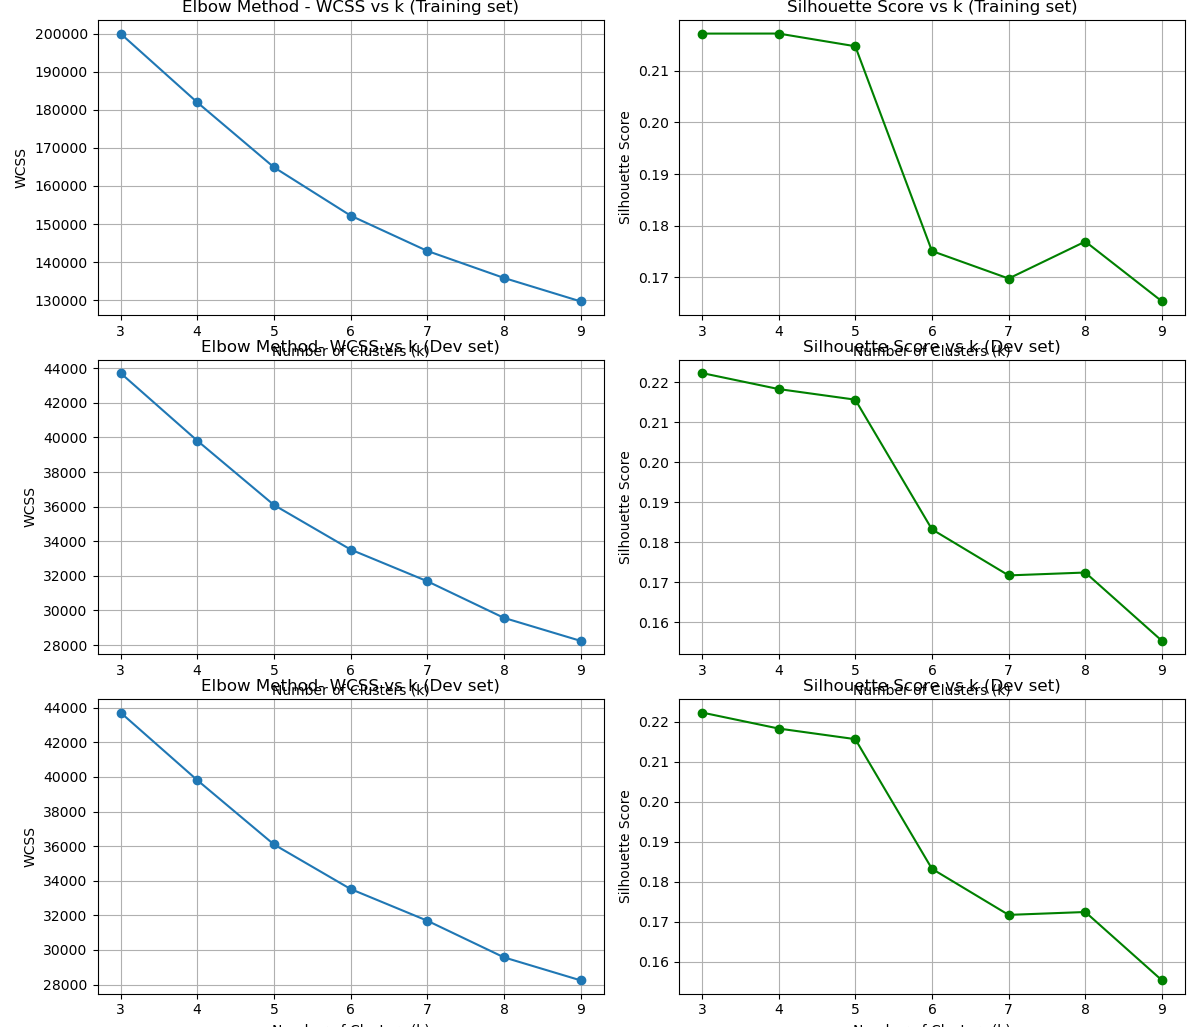
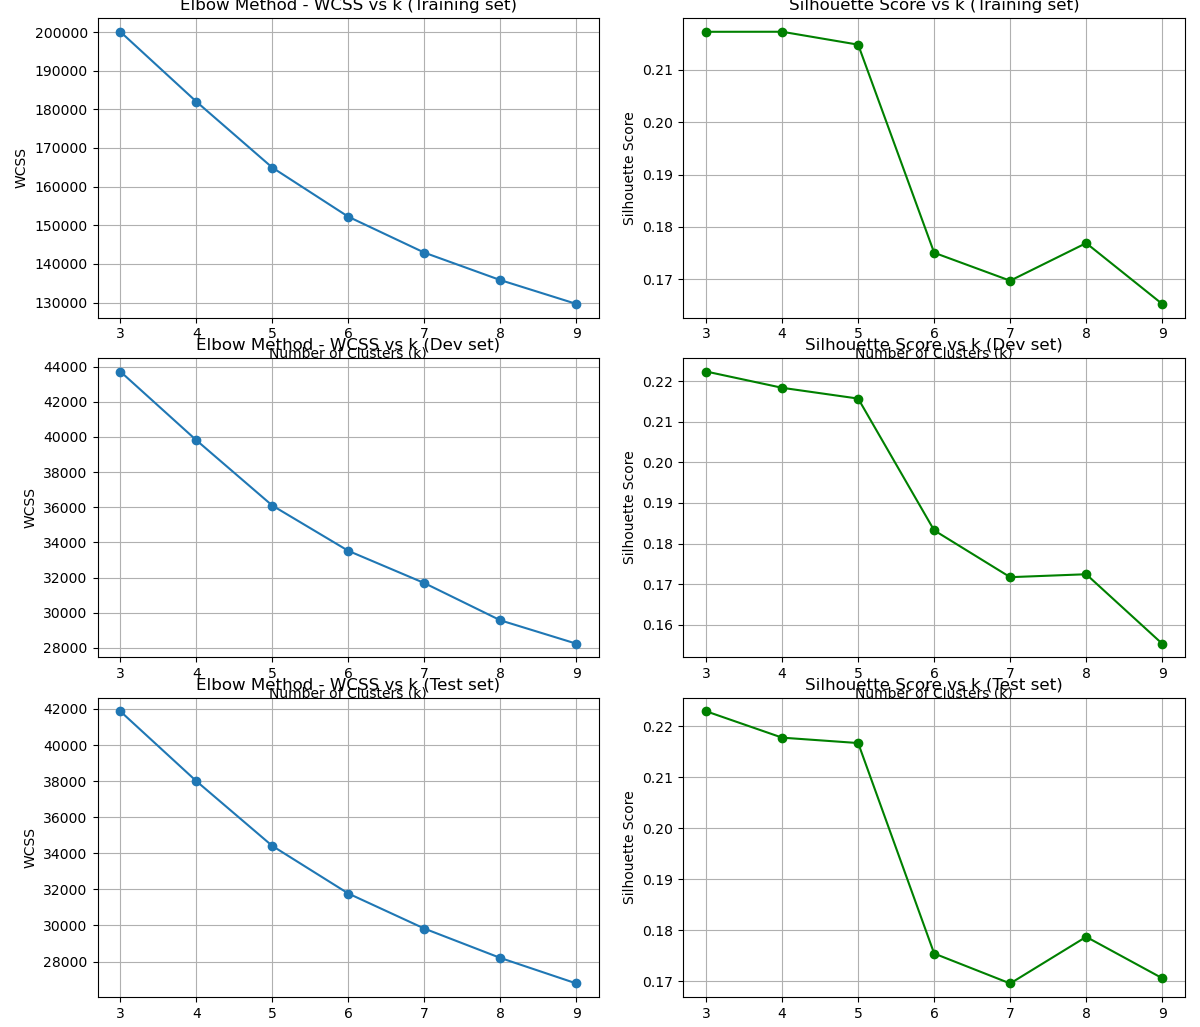
optimize visualization

diff --git a/src/visualization/visualize.py b/src/visualization/visualize.py
@@ -3,130 +3,100 @@ import os
 sys.path.append(os.path.abspath(os.path.join(os.path.dirname(__file__), r'../..')))
 
 from src.features.build_features import clean_data
-from src.models.predict_model import evaluate_model
 from src.models.train_model import train_kmeans_model
 from src.data.make_dataset import load_and_preprocess_data
 from sklearn.model_selection import train_test_split
 from sklearn.preprocessing import StandardScaler
-import matplotlib.pyplot as plt
 from sklearn.cluster import KMeans
 from sklearn.metrics import silhouette_score
+import matplotlib.pyplot as plt
 import warnings
 warnings.filterwarnings("ignore")
 
-# Import data loading, preprocessing, training, and evaluation functions
-
-# Path to the raw Diamonds dataset
+# Load and clean data
 data_path = r'data/raw/DiamondsPrices.csv'
-
-# Step 1: Load and preprocess the raw dataset (map categorical to numeric)
 df = load_and_preprocess_data(data_path)
-
-# Step 2: Clean the dataset and select relevant features
 df = clean_data(df)
 
-# Step 3: Train the KMeans model and return scaled train/dev/test splits
+# Split data
 x_temp, x_test = train_test_split(df, test_size=8000, random_state=42)
-
-# Split the temporary set into training and development sets
 x_train, x_dev = train_test_split(x_temp, test_size=8000, random_state=42)
 
-# Initialize and fit the scaler using the training data
 scaler = StandardScaler().fit(x_train)
-
-# Transform all splits using the fitted scaler
 x_train_scaled = scaler.transform(x_train)
 x_dev_scaled = scaler.transform(x_dev)
 x_test_scaled = scaler.transform(x_test)
 
+# Function to compute WCSS and Silhouette
+def compute_scores(X, k_range, random_state=42):
+    wcss = []
+    sil = []
+    for k in k_range:
+        model = KMeans(n_clusters=k, n_init=20, random_state=random_state)
+        labels = model.fit_predict(X)
+        wcss.append(model.inertia_)
+        sil.append(silhouette_score(X, labels))
+    return wcss, sil
 
-random_v=42
-plt.figure(figsize=(12, 18)) 
-k = range(3,10)
-K = []
-WCSS = []
-ss=[]
-for i in k:
-    kmodel = KMeans(n_clusters=i,n_init=20,  random_state=random_v).fit(x_train_scaled)
-    wcss_score = kmodel.inertia_
-    WCSS.append(wcss_score)
-    sil_score = silhouette_score(x_train_scaled, kmodel.labels_)   
+# Range for k
+k_values = range(3, 10)
 
-    K.append(i)
-    ss.append(sil_score)
-    
+# Compute scores
+train_wcss, train_sil = compute_scores(x_train_scaled, k_values)
+dev_wcss, dev_sil = compute_scores(x_dev_scaled, k_values)
+test_wcss, test_sil = compute_scores(x_test_scaled, k_values)
+
+# Plotting
+plt.figure(figsize=(12, 20))
+plt.subplots_adjust(hspace=1) 
+# Training
+
 plt.subplot(3, 2, 1)
-plt.plot(K, WCSS, marker='o')
-plt.title('Elbow Method - WCSS vs k (Training set)')
-plt.xlabel('Number of Clusters (k)')
-plt.ylabel('WCSS')
+plt.plot(k_values, train_wcss, marker='o')
+plt.title("Elbow Method - WCSS vs k (Training set)")
+plt.xlabel("Number of Clusters (k)")
+plt.ylabel("WCSS")
 plt.grid(True)
 
-# Silhouette Plot
 plt.subplot(3, 2, 2)
-plt.plot(K, ss, marker='o', color='green')
-plt.title('Silhouette Score vs k (Training set)')
-plt.xlabel('Number of Clusters (k)')
-plt.ylabel('Silhouette Score')
+plt.plot(k_values, train_sil, marker='o', color='green')
+plt.title("Silhouette Score vs k (Training set)")
+plt.xlabel("Number of Clusters (k)")
+plt.ylabel("Silhouette Score")
 plt.grid(True)
 
-plt.tight_layout()
-
-k = range(3,10)
-K = []
-WCSS = []
-ss=[]
-for i in k:
-    kmodel = KMeans(n_clusters=i,n_init=20,  random_state=random_v).fit(x_dev_scaled)
-    wcss_score = kmodel.inertia_
-    WCSS.append(wcss_score)
-    sil_score = silhouette_score(x_dev_scaled, kmodel.labels_)    
-    K.append(i)
-    ss.append(sil_score)
-    
+# Dev
+plt.subplots_adjust(hspace=10) 
 plt.subplot(3, 2, 3)
-plt.plot(K, WCSS, marker='o')
-plt.title('Elbow Method- WCSS vs k (Dev set)')
-plt.xlabel('Number of Clusters (k)')
-plt.ylabel('WCSS')
+plt.plot(k_values, dev_wcss, marker='o')
+plt.title("Elbow Method - WCSS vs k (Dev set)")
+plt.xlabel("Number of Clusters (k)")
+plt.ylabel("WCSS")
 plt.grid(True)
 
-# Silhouette Plot
 plt.subplot(3, 2, 4)
-plt.plot(K, ss, marker='o', color='green')
-plt.title('Silhouette Score vs k (Dev set)')
-plt.xlabel('Number of Clusters (k)')
-plt.ylabel('Silhouette Score')
+plt.plot(k_values, dev_sil, marker='o', color='green')
+plt.title("Silhouette Score vs k (Dev set)")
+plt.xlabel("Number of Clusters (k)")
+plt.ylabel("Silhouette Score")
 plt.grid(True)
 
-plt.tight_layout()    
-
-k = range(3,10)
-K = []
-WCSS = []
-ss=[]
-for i in k:
-    kmodel = KMeans(n_clusters=i,n_init=20,  random_state=random_v).fit(x_dev_scaled)
-    wcss_score = kmodel.inertia_
-    WCSS.append(wcss_score)
-    sil_score = silhouette_score(x_dev_scaled, kmodel.labels_)    
-    K.append(i)
-    ss.append(sil_score)
-
+# Test
+plt.subplots_adjust(hspace=10) 
 plt.subplot(3, 2, 5)
-plt.plot(K, WCSS, marker='o')
-plt.title('Elbow Method- WCSS vs k (Dev set)')
-plt.xlabel('Number of Clusters (k)')
-plt.ylabel('WCSS')
+plt.plot(k_values, test_wcss, marker='o')
+plt.title("Elbow Method - WCSS vs k (Test set)")
+plt.xlabel("Number of Clusters (k)")
+plt.ylabel("WCSS")
 plt.grid(True)
 
-# Silhouette Plot
 plt.subplot(3, 2, 6)
-plt.plot(K, ss, marker='o', color='green')
-plt.title('Silhouette Score vs k (Dev set)')
-plt.xlabel('Number of Clusters (k)')
-plt.ylabel('Silhouette Score')
+plt.plot(k_values, test_sil, marker='o', color='green')
+plt.title("Silhouette Score vs k (Test set)")
+plt.xlabel("Number of Clusters (k)")
+plt.ylabel("Silhouette Score")
 plt.grid(True)
 
+# Adjust spacing
 plt.tight_layout()
 plt.show()
